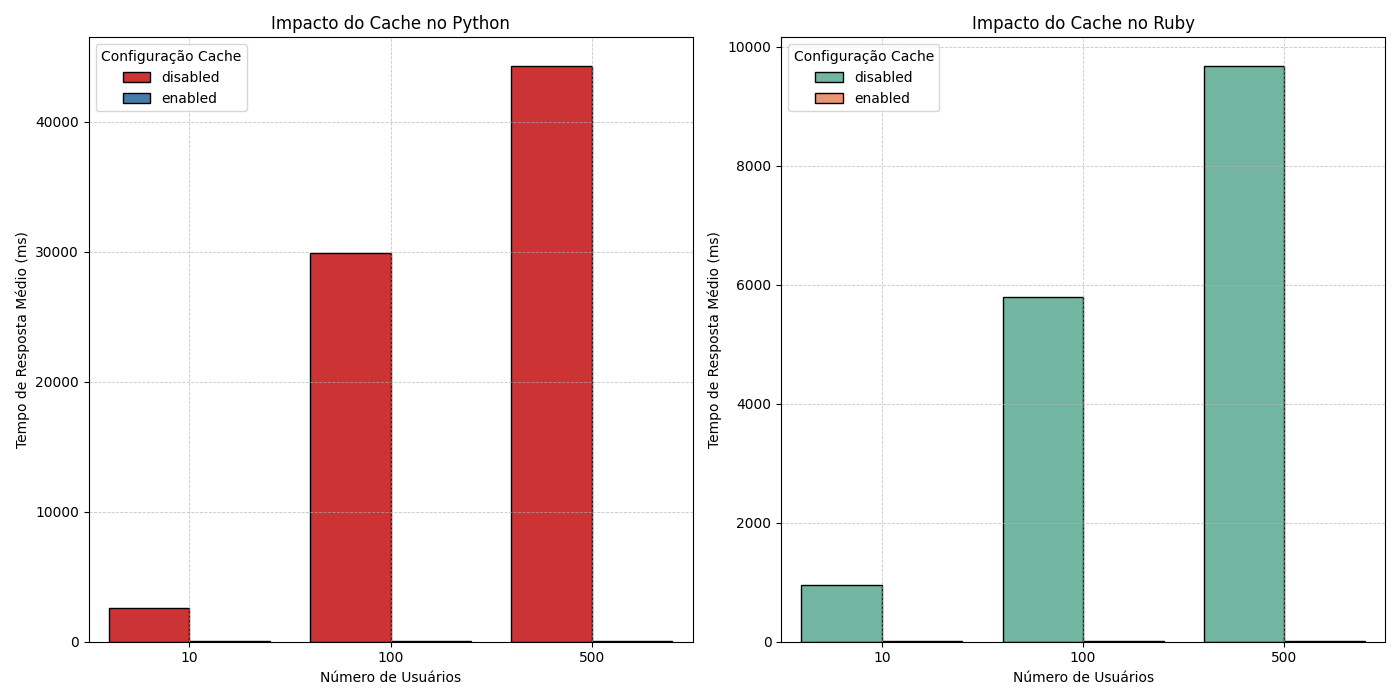
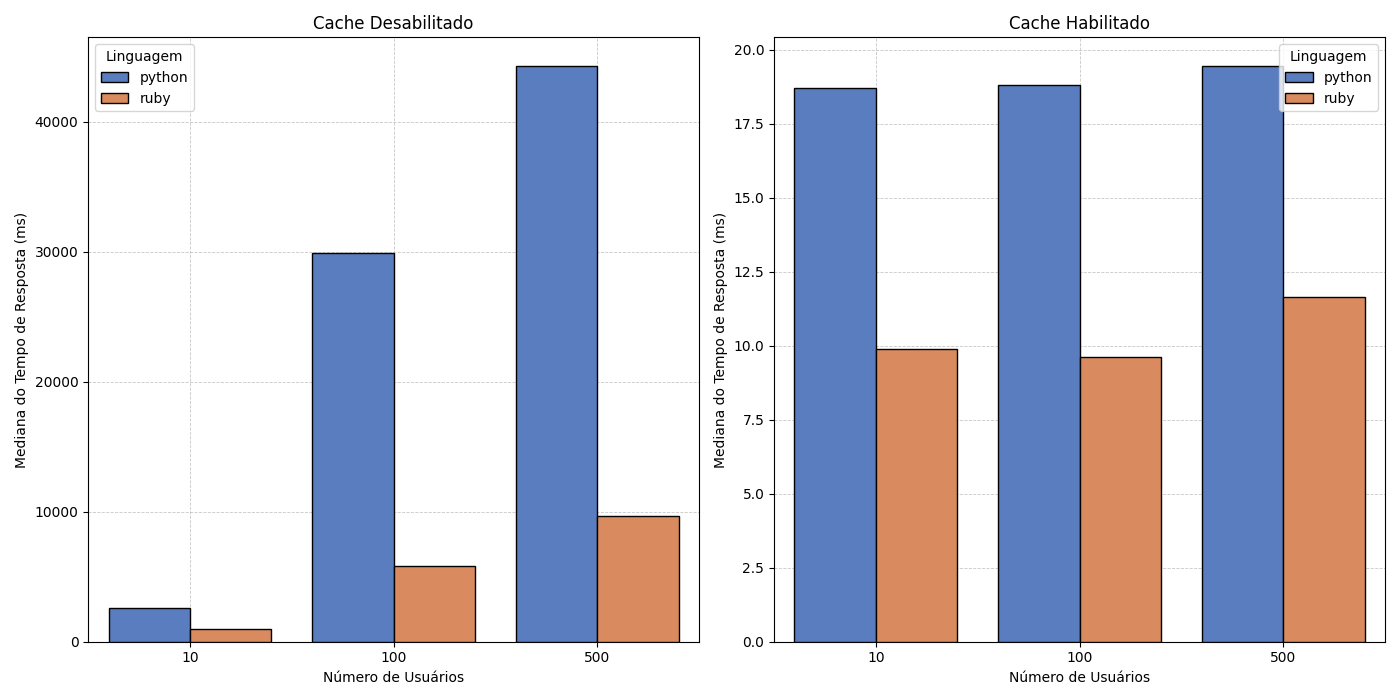
"Refactor code to improve chart labels and readability
Changed function 'plot_charts' to support multiple languages. Added translations for chart labels from English to Portuguese to improve accessibility for Portuguese speakers. Also, modified the grouping logic to allow easier extension with other features by replacing hard-coded 'Median Response Time' with the variable 'feature'. This change, while may seem small, will make the codebase more extendable and easier to maintain in the long run. Lastly, renamed 'plot_charts' to 'plot_language_charts' to better match its new purpose."

diff --git a/data_analysis/charts.py b/data_analysis/charts.py
@@ -10,77 +10,79 @@ def get_merged_file() -> pd.DataFrame:
     return pd.read_csv(path)
 
 
-def plot_charts(input_dataframe: pd.DataFrame):
+def english_to_portuguese_y_label(term: str) -> str:
+    term_table = {"Median Response Time": "Mediana do Tempo de Resposta (ms)",
+                  "95%": "Percentil 95%"}
+    return term_table[term]
+
+
+def plot_language_charts(input_dataframe: pd.DataFrame):
+    feature = 'Median Response Time'
+    feature_portuguese_y_label = english_to_portuguese_y_label(feature)
     disabled_cache_group = input_dataframe[input_dataframe['Cache'] == 'disabled']
-    disabled_cache_grouped = disabled_cache_group.groupby(['Cache', 'Language', 'Users'])[
-        'Median Response Time'].mean().reset_index()
+    disabled_cache_grouped = disabled_cache_group.groupby(['Cache', 'Language', 'Users'])[feature].mean().reset_index()
 
     enabled_cache_group = input_dataframe[input_dataframe['Cache'] == 'enabled']
-    enabled_cache_grouped = enabled_cache_group.groupby(['Language', 'Users'])[
-        'Median Response Time'].mean().reset_index()
+    enabled_cache_grouped = enabled_cache_group.groupby(['Language', 'Users'])[feature].mean().reset_index()
     enabled_cache_grouped['Cache'] = 'enabled'
 
     plt.figure(figsize=(14, 7))
 
     ax1 = plt.subplot(1, 2, 1)
-    sns.barplot(x='Users', y='Median Response Time', hue='Language', data=disabled_cache_grouped, palette='muted',
+    sns.barplot(x='Users', y=feature, hue='Language', data=disabled_cache_grouped, palette='muted',
                 edgecolor='black', errorbar=None, zorder=3)
     plt.title('Cache Desabilitado')
     plt.xlabel('Número de Usuários')
-    plt.ylabel('Tempo Médio de Resposta (ms)')
+    plt.ylabel(feature_portuguese_y_label)
     plt.legend(title='Linguagem')
     ax1.grid(True, which='both', linestyle='--', linewidth=0.6, alpha=0.7, zorder=0)
 
     ax2 = plt.subplot(1, 2, 2)
-    sns.barplot(x='Users', y='Median Response Time', hue='Language', data=enabled_cache_grouped, palette='muted',
+    sns.barplot(x='Users', y=feature, hue='Language', data=enabled_cache_grouped, palette='muted',
                 edgecolor='black', errorbar=None, zorder=3)
     plt.title('Cache Habilitado')
     plt.xlabel('Número de Usuários')
-    plt.ylabel('Tempo Médio de Resposta (ms)')
+    plt.ylabel(feature_portuguese_y_label)
     plt.legend(title='Linguagem')
     ax2.grid(True, which='both', linestyle='--', linewidth=0.6, alpha=0.7, zorder=0)
     plt.tight_layout()
     plt.show()
 
 
-
 def plot_cache_impact(input_dataframe: pd.DataFrame):
-    # Group the data by 'Cache', 'Language', and 'Users', then calculate the average median response time
-    grouped_data = input_dataframe.groupby(['Cache', 'Language', 'Users'])['Median Response Time'].mean().reset_index()
+    feature = 'Median Response Time'
+    feature_portuguese_label = english_to_portuguese_y_label(feature)
+    grouped_data = input_dataframe.groupby(['Cache', 'Language', 'Users'])[feature].mean().reset_index()
 
-    # Set up the figure for plotting
     plt.figure(figsize=(14, 7))
 
-    # Subplot for the impact of caching on Python
     plt.subplot(1, 2, 1)
     python_data = grouped_data[grouped_data['Language'] == 'python']
-    sns.barplot(x='Users', y='Median Response Time', hue='Cache',
-                 data=python_data, palette='Set1', edgecolor='black', errorbar=None)
+    sns.barplot(x='Users', y=feature, hue='Cache',
+                data=python_data, palette='Set1', edgecolor='black', errorbar=None, zorder=3)
     plt.title('Impacto do Cache no Python')
     plt.xlabel('Número de Usuários')
-    plt.ylabel('Tempo de Resposta Médio (ms)')
+    plt.ylabel(feature_portuguese_label)
     plt.legend(title='Configuração Cache')
     plt.grid(True, which='both', linestyle='--', linewidth=0.6, alpha=0.7, zorder=0)
 
-    # Subplot for the impact of caching on Ruby
     plt.subplot(1, 2, 2)
     ruby_data = grouped_data[grouped_data['Language'] == 'ruby']
-    sns.barplot(x='Users', y='Median Response Time', hue='Cache',
-                 data=ruby_data, palette='Set2', edgecolor='black', errorbar=None)
+    sns.barplot(x='Users', y=feature, hue='Cache',
+                data=ruby_data, palette='Set2', edgecolor='black', errorbar=None, zorder=3)
     plt.title('Impacto do Cache no Ruby')
     plt.xlabel('Número de Usuários')
-    plt.ylabel('Tempo de Resposta Médio (ms)')
+    plt.ylabel(feature_portuguese_label)
     plt.legend(title='Configuração Cache')
     plt.grid(True, which='both', linestyle='--', linewidth=0.6, alpha=0.7, zorder=0)
 
-    # Adjust the layout and display the plots
     plt.tight_layout()
     plt.show()
 
 
 def __main():
     df = get_merged_file()
-    plot_charts(df)
+    plot_language_charts(df)
     plot_cache_impact(df)
 
 
